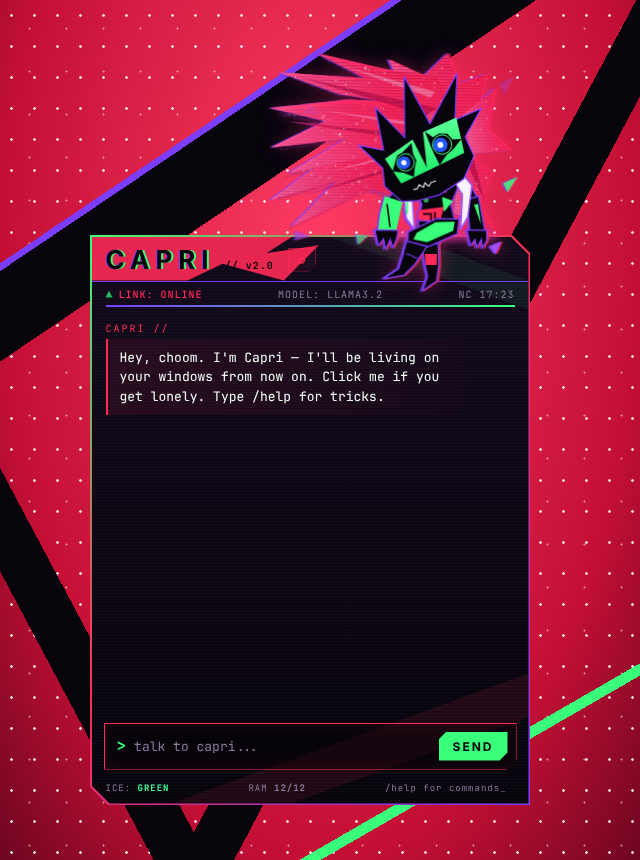
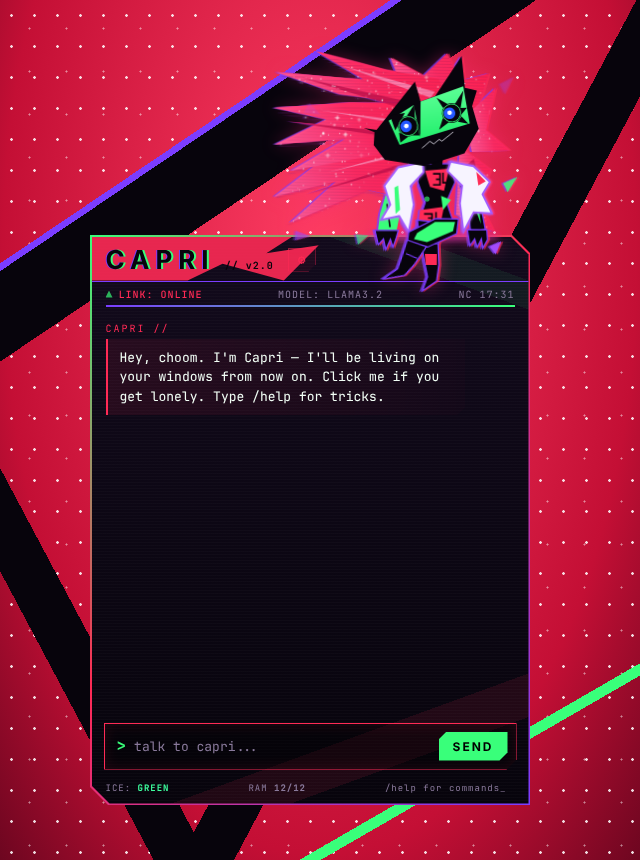
Capri: retrace head from the anime frames, add the white coat
- Head traced point-by-point from a zoomed anime frame (tools/trace_head.py):
  two broad black blades (tall one forming the divider between the eyes,
  huge one top-right), wide green visor, eyes in black sockets with long
  eyeliner wedges, thin green ring / blue iris / white core, rising thin
  zigzag mouth and jagged triangle grin; tilt baked in, no outline
- Smaller head for truer proportions; slimmer torso
- Big white angular coat shards with glowing violet edges over the
  shoulders, green stripe on the left panel
- Denser glitter in the mane, fainter scanlines, brighter highlights

Claude-Session: https://claude.ai/code/session_017KjQDg2nrerWK3rfMVPUN9

Changed region(s): [[0.4062, 0.0605, 0.7812, 0.3326]]

diff --git a/capri/renderer/avatar.js b/capri/renderer/avatar.js
@@ -26,7 +26,7 @@
       <stop offset="0" stop-color="#5cff96"/><stop offset="1" stop-color="#20ef6b"/>
     </linearGradient>
     <pattern id="cpScan" width="6" height="3" patternUnits="userSpaceOnUse">
-      <rect width="6" height="1" fill="#2b0a3d" opacity=".28"/>
+      <rect width="6" height="1" fill="#2b0a3d" opacity=".14"/>
     </pattern>
     <clipPath id="cpHairClip">
       <use href="#cpHA"/><use href="#cpHB"/><use href="#cpHC"/><use href="#cpHD"/><use href="#cpHE"/><use href="#cpHF"/>
@@ -58,30 +58,31 @@
 
     <!-- arms: big green glove on the left, green stripe on the right; hands grip the ledge -->
     <g class="cp-arm-l">
-      <path class="cp-ink" data-boil=".7" d="M128 113 L137 119 L112 150 L101 146 Z"/>
+      <path class="cp-ink" data-boil=".7" d="M118 128 L126 132 L112 150 L101 146 Z"/>
       <path class="cp-lime" data-boil=".8" d="M99 142 L116 148 L110 177 L91 179 L94 160 Z"/>
       <path d="M101 150 L104 173" stroke="#07040c" stroke-width="1.6"/>
       <path class="cp-ink" data-boil=".6" d="M89 176 L112 176 L110 185 L107 193 L104 185 L100 195 L97 185 L92 191 Z"/>
     </g>
     <g class="cp-arm-r">
-      <path class="cp-ink" data-boil=".7" d="M172 113 L163 119 L182 150 L193 146 Z"/>
+      <path class="cp-ink" data-boil=".7" d="M182 128 L174 132 L182 150 L193 146 Z"/>
       <path class="cp-ink" data-boil=".7" d="M181 145 L193 143 L199 176 L184 178 Z"/>
       <path class="cp-lime" d="M188 151 L192 150 L195 170 Z"/>
       <path class="cp-ink" data-boil=".6" d="M181 176 L201 176 L201 186 L197 194 L195 185 L191 193 L189 185 L184 191 Z"/>
     </g>
 
-    <!-- torso: black bodysuit, red panels with black E-shaped circuit notches -->
-    <path class="cp-ink" data-boil=".7" d="M134 111 L166 111 L173 130 L164 150 L171 178 L129 178 L136 150 L127 130 Z"/>
-    <path class="cp-red" data-boil=".7" d="M139 119 L165 117 L160 139 L145 135 Z"/>
-    <path class="cp-notch" d="M147 122 L155 122 L155 133 L147 133 M151 127 L155 127 M158 121 L158 131 L162 131"/>
-    <path class="cp-red" data-boil=".7" d="M133 156 L158 153 L153 172 L131 174 Z"/>
-    <path class="cp-notch" d="M137 160 L145 160 L145 168 M149 158 L149 165 L153 165"/>
-    <path class="cp-lime" data-boil=".6" d="M156 143 L167 147 L158 158 Z"/>
-    <circle class="cp-led" cx="140" cy="146" r="2.6" fill="#39ff7a"/>
-    <!-- white angular jacket panels with violet rims -->
-    <path class="cp-coat" data-boil=".7" d="M130 113 L116 131 L120 165 L128 175 L126 141 L137 120 Z"/>
-    <path class="cp-coat" data-boil=".7" d="M170 113 L186 131 L182 163 L174 175 L176 141 L163 120 Z"/>
-    <path d="M121 138 L121 160" stroke="#39ff7a" stroke-width="2"/>
+    <!-- torso: slim black bodysuit, red panels with black E-shaped circuit notches -->
+    <path class="cp-ink" data-boil=".7" d="M135 110 L165 110 L169 128 L161 148 L170 178 L130 178 L139 148 L131 128 Z"/>
+    <path class="cp-red" data-boil=".7" d="M139 117 L163 115 L158 137 L144 133 Z"/>
+    <path class="cp-notch" d="M147 120 L154 120 L154 131 L147 131 M150 125.5 L154 125.5 M157 119 L157 129 L161 129"/>
+    <path class="cp-red" data-boil=".7" d="M134 156 L158 153 L154 172 L132 174 Z"/>
+    <path class="cp-notch" d="M138 160 L146 160 L146 168 L138 168 M142 164 L146 164 M150 158 L150 166 L154 166"/>
+    <path class="cp-lime" data-boil=".6" d="M155 142 L165 146 L157 156 Z"/>
+    <circle class="cp-led" cx="141" cy="145" r="2.6" fill="#39ff7a"/>
+    <!-- big white coat shards over the shoulders, violet-edged, green stripe on the left -->
+    <path class="cp-coat" data-boil=".8" d="M136 108 L112 114 L98 132 L104 150 L96 166 L114 162 L122 178 L127 150 L124 132 L138 118 Z"/>
+    <path class="cp-coat" data-boil=".8" d="M164 108 L188 113 L204 128 L196 140 L206 160 L188 158 L178 178 L174 150 L176 132 L162 118 Z"/>
+    <path class="cp-lime" data-boil=".5" d="M108 134 L112 132 L114 156 L110 160 Z"/>
+    <path class="cp-red" data-boil=".6" d="M190 118 L200 128 L192 132 Z"/>
     <!-- crossed legs: under thigh, then the top thigh crossing over to the left knee -->
     <path class="cp-ink" data-boil=".6" d="M132 166 L151 168 L153 190 L133 191 Z"/>
     <path class="cp-ink" data-boil=".6" d="M150 165 L173 165 L171 180 L142 193 L121 191 L123 178 Z"/>
@@ -89,34 +90,34 @@
     <!-- neck -->
     <path class="cp-void" d="M145 104 L157 104 L156 114 L146 114 Z"/>
 
-    <g class="cp-head"><g transform="rotate(-10 150 106)">
-      <!-- black head: tall blade spikes, cheek and jaw -->
-      <path class="cp-ink cp-crown" data-boil="1.1" d="M112 124 L100 104 L104 86 L86 58 L110 70 L112 26 L134 62 L148 4 L160 56 L200 16 L186 60 L214 56 L192 80 L194 100 L178 118 L150 127 L126 127 Z"/>
-      <!-- the green visor, split from the top by a black spike between the eyes -->
-      <path class="cp-visor" data-boil=".45" d="M108 78 L140 67 L146 98 L152 63 L188 58 L186 94 L117 106 Z"/>
-      <!-- star-shaped black eye sockets, like heavy eyeliner -->
-      <path class="cp-void" data-boil=".3" d="M127 76.5 L138 70 L136.5 81 L137.8 88 L134 95.5 L131 103 L122 96.5 L112 92 L117.5 83 L121 78 Z"/>
-      <path class="cp-void" data-boil=".3" d="M167 68.5 L175 71 L178.5 78 L187 80 L176.5 87.5 L168 91.5 L159 99 L156.5 86 L155.5 78 L154 63 L160 70.5 Z"/>
-      <!-- eyes: thin green ring, big royal-blue iris, white core -->
+    <!-- head: traced from the anime frames (tilt baked in) -->
+    <g class="cp-head">
+      <!-- black head: tall blade over the divider, huge blade top-right, tall plain lower face -->
+      <path class="cp-void cp-crown" data-boil=".9" d="M137.7 27.5 L141.3 47.9 L156.4 44.1 L186.8 7.4 L186.8 38.9 L198.4 43.0 L192.1 57.8 L196.3 80.8 L179.5 103.9 L138.6 112.3 L99.7 101.8 L90.2 86.1 L92.3 73.5 L81.9 68.2 L94.5 71.4 Z"/>
+      <!-- the green visor; the black notch between the eyes is the tall blade coming down -->
+      <path class="cp-visor" data-boil=".35" d="M107.6 63.5 L134.1 50.6 L137.3 83.0 L141.3 47.9 L185.3 37.3 L187.9 74.8 L116.0 88.7 Z"/>
+      <!-- eyes: black socket with long eyeliner wedges, thin green ring, blue iris, white core -->
       <g class="cp-eyes">
-        <circle cx="127" cy="87" r="8.6" fill="#07040c" stroke="#39ff7a" stroke-width=".9"/>
-        <circle cx="167" cy="80" r="9.6" fill="#07040c" stroke="#39ff7a" stroke-width=".9"/>
+        <path class="cp-void" data-boil=".25" d="M126.4 60.4 L133.9 63.8 L134.6 50.2 Z M113.1 73.8 L124.5 57.5 L109.4 58.4 Z M116.7 76.4 L125.4 81.3 L116.9 86.5 Z M130.0 80.5 L136.4 74.5 L136.8 81.3 Z"/>
+        <path class="cp-void" data-boil=".25" d="M162.7 56.6 L168.4 53.2 L157.7 46.0 Z M175.0 54.1 L180.3 59.1 L185.0 41.0 Z M161.7 67.0 L167.0 71.6 L156.6 77.7 Z M176.2 71.6 L180.7 67.0 L186.6 74.8 Z M180.1 58.5 L180.1 65.4 L186.8 59.0 Z"/>
+        <circle cx="126.5" cy="70.9" r="10.39" fill="#07040c"/>
+        <circle cx="126.5" cy="70.9" r="9.45" fill="none" stroke="#39ff7a" stroke-width=".8"/>
+        <circle cx="171.1" cy="62.5" r="9.87" fill="#07040c"/>
+        <circle cx="171.1" cy="62.5" r="8.92" fill="none" stroke="#39ff7a" stroke-width=".8"/>
         <g class="cp-pupils">
-          <circle cx="127" cy="87" r="6.4" fill="#2457ff"/>
-          <circle cx="167" cy="80" r="7.2" fill="#2457ff"/>
-          <circle cx="127" cy="87" r="2.6" fill="#fff"/>
-          <circle cx="167" cy="80" r="2.9" fill="#fff"/>
+          <circle cx="126.5" cy="70.9" r="5.77" fill="#2457ff"/>
+          <circle cx="171.1" cy="62.5" r="5.77" fill="#2457ff"/>
+          <circle cx="126.8" cy="70.6" r="2.31" fill="#fff"/>
+          <circle cx="171.2" cy="62.0" r="2.31" fill="#fff"/>
         </g>
       </g>
-      <path class="cp-sleepy" d="M118 88 L127 92 L136 88 M157 81 L167 85 L177 81"/>
-      <path class="cp-happy" d="M118 92 L127 82 L136 92 M157 85 L167 74 L177 85"/>
-      <!-- mouth: a tiny thin white zigzag... -->
-      <path class="cp-mouth-shut" data-boil=".3" d="M127 115 L131 115 L134 112 L137 116 L140 112 L143 116 L146 113 L151 113"/>
-      <!-- ...that opens into a big white triangle grin with jagged teeth -->
-      <g class="cp-mouth-open">
-        <path d="M121 107 L127 112 L131 107 L136 113 L141 106 L147 111 L153 104 L170 101 L134 129 Z" fill="#fff"/>
-      </g>
-    </g></g>
+      <path class="cp-sleepy" d="M117.5 71.4 L126.5 74.5 L135.4 71.4 M162.7 62.5 L171.1 65.6 L179.5 62.5"/>
+      <path class="cp-happy" d="M117.5 75.2 L126.5 65.1 L135.4 75.2 M162.7 66.8 L171.1 56.7 L179.5 66.8"/>
+      <!-- mouth: a thin white rising zigzag... -->
+      <path class="cp-mouth-shut" data-boil=".25" d="M138.0 94.0 L146.4 88.2 L150.1 91.3 L155.9 87.2 L158.5 89.2 L170.6 81.4"/>
+      <!-- ...that snaps open into a white triangle grin with jagged teeth -->
+      <g class="cp-mouth-open"><path d="M130.2 85.9 L134.3 89.2 L137.7 85.3 L141.7 88.6 L145.5 84.2 L150.1 87.2 L153.5 83.2 L167.9 79.8 L139.4 102.4 Z" fill="#fff"/></g>
+    </g>
   </g>
 
   <!-- top leg: shin dangles from the crossed-over knee, foot bobbing -->
@@ -168,7 +169,7 @@
   function sparkle(svg) {
     const g = svg.querySelector('.cp-stars');
     let html = '';
-    for (let i = 0; i < 320; i++) {
+    for (let i = 0; i < 480; i++) {
       const x = (Math.random() * 226).toFixed(1), y = (Math.random() * 182).toFixed(1);
       if (i % 8 === 0) {
         const delay = `animation-delay:-${(Math.random() * 2).toFixed(2)}s`;
@@ -265,12 +266,12 @@
     function lookAt(x, y) {
       const r = art.getBoundingClientRect();
       const cr = container.getBoundingClientRect();
-      const ex = (r.left - cr.left) + r.width * 0.613;
-      const ey = (r.top - cr.top) + r.height * 0.35;
+      const ex = (r.left - cr.left) + r.width * 0.62;
+      const ey = (r.top - cr.top) + r.height * 0.26;
       const dx = x - ex, dy = y - ey;
       const d = Math.hypot(dx, dy) || 1;
       const k = Math.min(1, d / 220);
-      if (pupils) pupils.style.transform = `translate(${(dx / d) * 1.8 * k}px, ${(dy / d) * 1.8 * k}px)`;
+      if (pupils) pupils.style.transform = `translate(${(dx / d) * 2.2 * k}px, ${(dy / d) * 2.2 * k}px)`;
       const tilt = `rotate(${(dx / d) * 6 * k}deg)`;
       if (head) head.style.transform = tilt; else art.style.transform = tilt;
     }

diff --git a/capri/renderer/avatar.css b/capri/renderer/avatar.css
@@ -32,13 +32,13 @@
 .cp-lime { fill: #39ff7a; }
 .cp-visor { fill: url(#cpGreen); }
 .cp-notch { fill: none; stroke: #07040c; stroke-width: 1.6; stroke-linejoin: miter; }
-.cp-coat { fill: #f6f2ff; stroke: #9b5cff; stroke-width: 1.6; stroke-linejoin: miter; }
+.cp-coat { fill: #f7f4ff; stroke: #a15cff; stroke-width: 1.7; stroke-linejoin: miter; filter: drop-shadow(0 0 1.5px #c27bff); }
 .cp-hair-dark { fill: #c40f4a; opacity: .8; }
-.cp-hair-light { fill: #ffa3cc; opacity: .55; }
+.cp-hair-light { fill: #ffa8d0; opacity: .65; }
 .cp-speck { fill: #fff; opacity: .75; }
 .cp-star { fill: #fff; animation: cp-twinkle 1.8s steps(3) infinite; }
 .cp-star-big { animation-duration: 2.6s; }
-.cp-mouth-shut { fill: none; stroke: #fff; stroke-width: 1; stroke-linejoin: miter; }
+.cp-mouth-shut { fill: none; stroke: #e8e6f2; stroke-width: .75; stroke-linejoin: miter; }
 .cp-sleepy, .cp-happy { fill: none; stroke: #07040c; stroke-width: 2.6; stroke-linejoin: miter; }
 .cp-think path { fill: #39ff7a; }
 .cp-zzz text { fill: #39ff7a; font: 700 13px "Consolas", monospace; }

diff --git a/capri/tools/trace_head.py b/capri/tools/trace_head.py
@@ -1,0 +1,56 @@
+"""Generate Capri's head SVG (visor, eye sockets, mouth, grin) from points traced off
+an anime reference frame (an 840x560 zoom), mapped into the avatar's 240x240 space.
+Run:  python3 tools/trace_head.py > head.json   then paste the paths into renderer/avatar.js."""
+import math
+
+S = 0.105            # reference px -> svg units
+OX, OY = 148, 63     # svg position of reference point (420, 250) (visor centre)
+
+def m(x, y):
+    return (round(OX + (x - 420) * S, 1), round(OY + (y - 250) * S, 1))
+
+def path(pts, close=True):
+    p = [m(*q) for q in pts]
+    return 'M' + ' L'.join(f'{x} {y}' for x, y in p) + (' Z' if close else '')
+
+def r(v):
+    return round(v * S, 2)
+
+out = {}
+# black head: spike A (tall, over the divider), spike B (huge, top-right), cheeks + tall lower face
+out['head'] = path([(322, -88), (356, 106), (500, 70), (790, -280), (790, 20), (900, 60), (840, 200),
+                    (880, 420), (720, 640), (330, 720), (-40, 620), (-130, 470), (-110, 350), (-210, 300), (-90, 330)])
+# green visor with the divider notch cut down from the top
+out['visor'] = path([(35, 255), (288, 132), (318, 440), (356, 106), (775, 5), (800, 362), (115, 495)])
+
+eyes = {'L': ((215, 325), 90, 55, 22, (218, 322)), 'R': ((640, 245), 85, 55, 22, (641, 240))}
+arms = {
+    'L': [((230, 232), (270, 250), (292, 128)),   # NE flick up to the divider
+          ((112, 318), (172, 232), (52, 206)),    # NW "brow" wedge
+          ((140, 388), (186, 414), (124, 474)),   # SW wedge
+          ((262, 404), (296, 372), (313, 424))],  # SE wedge
+    'R': [((572, 182), (602, 164), (512, 88)),    # NW flick up to the divider
+          ((688, 176), (716, 202), (772, 40)),    # NE wedge
+          ((562, 298), (590, 322), (502, 390)),   # SW wedge
+          ((698, 322), (722, 298), (788, 362)),   # SE wedge
+          ((726, 222), (726, 258), (790, 212))],  # E notch
+}
+for k, ((cx, cy), ring, blue, white, wc) in eyes.items():
+    X, Y = m(cx, cy)
+    out[f'eye{k}'] = dict(x=X, y=Y, socket=r(ring + 9), ring=r(ring), blue=r(blue), white=r(white), wx=m(*wc)[0], wy=m(*wc)[1])
+    def widen(a, f=1.8):
+        (x1, y1), (x2, y2), tip = a
+        mx, my = (x1 + x2) / 2, (y1 + y2) / 2
+        return ((mx + (x1 - mx) * f, my + (y1 - my) * f), (mx + (x2 - mx) * f, my + (y2 - my) * f), tip)
+    out[f'arms{k}'] = ' '.join(path(widen(a)) for a in arms[k])
+
+out['mouth'] = path([(325, 545), (405, 490), (440, 520), (495, 480), (520, 500), (635, 425)], close=False)
+out['grin'] = path([(250, 468), (290, 500), (322, 462), (360, 494), (396, 452), (440, 480), (472, 442), (610, 410), (338, 625)])
+
+def chevron(cx, cy, w, h, up=True):
+    s = -1 if up else 1
+    return path([(cx - w, cy - s * h * .2), (cx, cy + s * h), (cx + w, cy - s * h * .2)], close=False)
+out['happy'] = chevron(215, 350, 85, 80) + ' ' + chevron(640, 270, 80, 80)
+out['sleepy'] = path([(130, 330), (215, 360), (300, 330)], False) + ' ' + path([(560, 245), (640, 275), (720, 245)], False)
+
+import json; print(json.dumps(out, indent=1))

diff --git a/capri/README.md b/capri/README.md
@@ -79,6 +79,7 @@ drawing.
 capri/
 ├── main.js          Electron main: windows, perch/drag/snap, global cursor, Ollama proxy
 ├── preload.js       safe bridge exposed to the pages as window.capriDesktop
+├── tools/trace_head.py  regenerates her head's SVG paths from traced reference points
 └── renderer/
     ├── avatar.js    Capri herself (SVG + line boil + moods + idle actions + skins)
     ├── avatar.css   her colours and every animation
